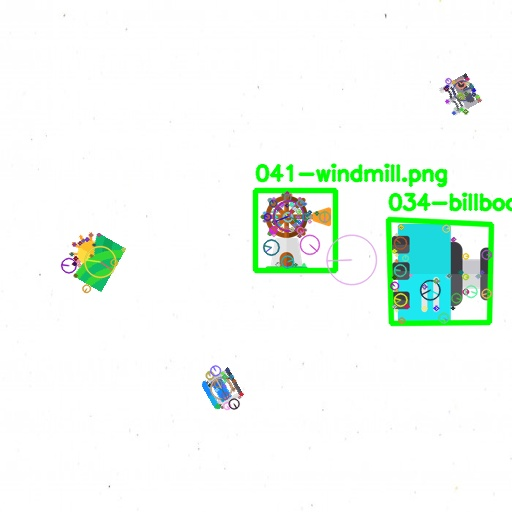
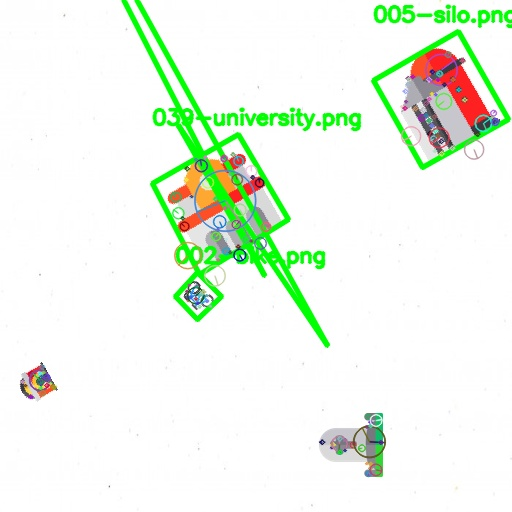
working c1 and c2 still need to refine

diff --git a/C-tasks/main.py b/C-tasks/main.py
@@ -31,16 +31,284 @@ class MatchResults:
     matches: list[cv.DMatch]
 
 
+def Canny(image, h1=50, h2=100):
+
+    gaussian = cv.GaussianBlur(image, (5,5), 0)
+
+    # Sobel Operator - Image gradient
+    sobelx = cv.Sobel(gaussian,cv.CV_64F,1,0,ksize=5)
+    sobely = cv.Sobel(gaussian,cv.CV_64F,0,1,ksize=5)
+
+    # Gradient Magitude
+    grad_magnitude = np.sqrt(sobelx**2 + sobely**2)
+    grad_magnitude = cv.normalize(grad_magnitude, None, 0, 255, cv.NORM_MINMAX)
+
+    # Gradient Orientation
+    grad_orientation = np.rad2deg(np.arctan2(sobely,sobelx))
+    grad_orientation[grad_orientation < 0] += 180
+
+    h, w = image.shape
+    points = np.zeros((h,w))
+    
+    for i in range(1, h-1):
+        for j in range(1, w-1):
+            angle = grad_orientation[i][j]
+
+            if (0 <= angle < 22.5) or (157.5 <= angle <= 180):
+                q, r = grad_magnitude[i,j+1], grad_magnitude[i,j-1]
+            elif 22.5 <= angle < 67.5:
+                q, r = grad_magnitude[i+1,j-1], grad_magnitude[i-1,j+1]
+            elif 67.5 <= angle < 112.5:
+                q, r = grad_magnitude[i+1,j], grad_magnitude[i-1,j]
+            elif 112.5 <= angle < 157.5:
+                q, r = grad_magnitude[i-1,j-1], grad_magnitude[i+1,j+1]
+
+            p = grad_magnitude[i][j]
+
+            if p >= q and p >= r:
+                points[i][j] = p
+
+    points[points < h1] = 0 # non edge
+    points[(points >= h1) & (points <= h2)] = 1 # weak edge
+    points[points > h2] = 255 # strong edge
+
+    stack = list(zip(*np.where(points == 255)))
+    i = 0
+
+    while stack:
+        i, j = stack.pop()
+
+        for di in [-1, 0, 1]:
+            for dj in [-1, 0, 1]:
+
+                ni = i + di
+                nj = j + dj
+
+                if 0 <= ni < h and 0 <= nj < w:
+
+                    if points[ni, nj] == 1:
+                        points[ni,  nj] = 255
+                        stack.append((ni, nj))
+
+    points[points == 1] = 0
+    
+    # cv.imshow(f'canny', points)
+    # cv.waitKey(0)
+    # cv.destroyAllWindows()
+
+    return points
+
+
+def Hough_Transform(canny, dia_len):
+    edge_points = np.nonzero(canny > 0)
+    y, x = edge_points[0], edge_points[1]
+
+    accumulator = np.zeros((180,dia_len*2))
+
+    min_dist = -dia_len
+    angle = -90
+
+    for i in range(180):
+
+        p_values =  np.round(x*np.cos([np.deg2rad(angle+i)]) + y*np.sin([np.deg2rad(angle+i)]),decimals=0)
+        p_values = p_values.astype(int)
+    
+        for col in range(dia_len*2):
+
+            dist_value = min_dist + col
+
+            count = np.size(p_values[p_values == dist_value])
+            
+            if count > 0:
+                accumulator[i][col] = count
+            
+    global_max = np.max(accumulator).astype(int)
+    threshold = int(global_max*0.7)
+
+    maxima = np.where(accumulator[:,:] >= threshold)
+    m_a, m_b = maxima[0], maxima[1]
+
+
+    indices = np.arange(len(m_a))
+
+    i = 0
+
+    while i < indices.shape[0]:
+
+        temp_indices = indices[indices>i] 
+        idx = np.where((m_a[temp_indices] == m_a[i]) | (np.abs(m_a[temp_indices] - m_a[i]) < 5))[0]
+        idx = idx + (i+1)
+
+        idx = idx[np.abs(m_b[idx] - m_b[i]) < 5]
+        indices = np.delete(indices, (idx-1))
+        i += 1
+
+    
+    maxima = (m_a[indices], m_b[indices])
+
+    theta, r = angle + maxima[0], min_dist + maxima[1]
+
+    return theta, r
+
+
+def compute_angle(theta):
+
+    angle = np.diff(theta)
+    angle = (angle + 180) % 360 - 180
+    angle = np.abs(angle)
+
+    return angle
+
+def draw_lines(theta, r, image, f_name):
+    
+    # polar to cartesian coordinates
+    a , b = np.cos(np.deg2rad(theta)), np.sin(np.deg2rad(theta))
+
+    x0, y0 = r * a, r * b
+    x1 = (x0 + 1000*(-b)).astype(int)
+    y1 = (y0 + 1000*(a)).astype(int)
+    x2 = (x0 - 1000*(-b)).astype(int)
+    y2 = (y0 - 1000*(a)).astype(int)
+
+    for l in range(len(theta)):
+        cv.line(image,(x1[l],y1[l]),(x2[l],y2[l]),(255,0,0),1)
+
+    
+    cv.imshow(f'{f_name}',image)
+    cv.waitKey(0)
+    cv.destroyAllWindows()
+
+
+
+
 def test_task_c1(folder_name):
     # assume that this folder name has a file list.txt that contains the annotation.
-    task1_data = pd.read_csv(folder_name + "/list.txt")
+    task1_data = pd.read_csv(folder_name + "list.txt")
     # task1_data = pd.read_csv(folder_name + "/list.txt")
     # Write code to read in each image
     # Write code to process the image
     # Write your code to calculate the angle and obtain the result as a list predAngles
     # Calculate and provide the error in predicting the angle for each image
+    
+    for f in task1_data["FileName"]:
+        
+        image = cv.imread(f"{folder_name}/" + f, cv.IMREAD_GRAYSCALE)
+
+        if image is None:
+            print("Error: Image not found or unable to read.")
+            return 
+
+        # Write code to process the image
+        height, width = image.shape
+        dia_len = int(np.sqrt(height**2 + width**2))
+
+        # points = Canny(image, dia_len)
+        points = cv.Canny(image, 50, 100)
+        theta, r = Hough_Transform(points, dia_len)
+        angle = compute_angle(theta)
+
+        # draw_lines(theta, r, image, f)
+
+        print(angle)
+
+      
     total_error = None
     return total_error
+
+# compute kernel
+def epanechnikov_kernel(w, h):
+    center_x, center_y = w//2, h//2
+    y_indices, x_indices = np.indices((h, w))
+    max_radius = np.sqrt((w / 2)**2 + (h / 2)**2)
+    grid = np.sqrt((x_indices - center_x)**2 + (y_indices - center_y)**2)/max_radius
+    weights = np.where(grid <= 1, 3/4*(1-grid**2), 0)
+    return weights
+
+ # compute intensity histogram
+def calculate_histogram(region, kernel):
+    hist = np.bincount(region.flatten(), weights=kernel.flatten(), minlength=256)
+    norm_hist = cv.normalize(hist, None, alpha=0, beta=255, norm_type=cv.NORM_MINMAX)
+    return np.float32(norm_hist)
+    
+def compare_histograms(hist1, hist2):
+    return cv.compareHist(hist1, hist2, cv.HISTCMP_CORREL)
+
+
+def template_matching(image, temps, temps_hist, kernels):
+    
+    step = 5
+    search_size = 40
+    boxes = []
+    scores = []
+
+    for t in range(temps.shape[0]):
+        best_score = -1
+        best_match = None
+        best_temp = None
+
+        for i in range(temps.shape[1]):
+            template = temps[t][i]
+        
+            result_ncc = cv.matchTemplate(image, template, cv.TM_CCORR_NORMED)
+            _, _, _, max_loc = cv.minMaxLoc(result_ncc)
+
+            x, y = max_loc
+            h, w = template.shape[:2]
+
+            search_x_start = max(0, x - search_size // 2)
+            search_y_start = max(0, y - search_size // 2)
+            search_x_end = min(image.shape[1] - w, x + search_size // 2)
+            search_y_end = min(image.shape[0] - h, y + search_size // 2)
+
+            for check_y in range(search_y_start, search_y_end, step):
+                for check_x in range(search_x_start, search_x_end, step):
+                    if check_y + h > image.shape[0] or check_x + w > image.shape[1]:
+                        continue
+
+                    region = image[check_y:check_y+h, check_x:check_x+w]
+                    region_hist = calculate_histogram(region, kernels[t][i])
+                    hist_score = compare_histograms(temps_hist[t][i], region_hist)
+                    ncc_score = result_ncc[check_y, check_x]
+
+                    combined_score = 1 * ncc_score + 0 * hist_score
+
+                    if combined_score > best_score:
+                        best_score = combined_score
+                        best_match = (check_x, check_y)
+                        best_temp = template
+                    
+        h, w = best_temp.shape[:2]
+        scores.append(best_score)
+        boxes.append([best_match[0], best_match[1], best_match[0]+w, best_match[1]+h])
+
+    return boxes, scores
+
+def NMS(boxes, treshold=0):
+        indices = np.arange(len(boxes))
+
+        areas = (boxes[indices, 2] - boxes[indices, 0]+1)*(boxes[indices, 3] - boxes[indices, 1]+1)
+
+        i = 0
+
+        while i < indices.shape[0]-1:
+            temp_indices = indices[indices>i]
+            
+            xx1 = np.maximum(boxes[i][0], boxes[temp_indices, 0])
+            yy1 = np.maximum(boxes[i][1], boxes[temp_indices, 1])
+            xx2 = np.minimum(boxes[i][2], boxes[temp_indices, 2])
+            yy2 = np.minimum(boxes[i][3], boxes[temp_indices, 3])
+
+            w = np.maximum(0, xx2-xx1+1)
+            h = np.maximum(0, yy2-yy1+1)
+           
+            overlap = (w*h)/ areas[temp_indices]
+
+
+            indices = indices[~np.isin(indices, temp_indices[overlap > treshold])] 
+
+            i += 1    
+
+        return indices
 
 
 def test_task_c2(icon_dir, test_dir):
@@ -49,6 +317,78 @@ def test_task_c2(icon_dir, test_dir):
     # For each predicted class, check accuracy with the annotations
     # Check and calculate the Intersection Over Union (IoU) score
     # based on the IoU determine accuracy, TruePositives, FalsePositives, FalseNegatives
+    templates = []
+    template_sizes=[0.125, 0.25, 0.375, 0.5, 1]
+
+    folder = os.listdir(icon_dir)
+    for file in folder:
+        templates.append(cv.imread(icon_dir + file, cv.IMREAD_GRAYSCALE))
+
+    for file in os.listdir(test_dir):
+        test_image= cv.imread(f"{test_dir}{file}")
+
+        if test_image is None:
+            print("Error: Image not found or unable to read.")
+            return 
+        
+        gray = cv.cvtColor(test_image, cv.COLOR_RGB2GRAY)
+
+        multi_templates = np.zeros([len(templates),len(template_sizes)], dtype=object)
+        templates_kernel = np.zeros([len(templates),len(template_sizes)], dtype=object)
+        templates_hist = np.zeros([len(templates),len(template_sizes)], dtype=object)
+
+        for t in range(len(templates)):
+            template = templates[t]
+
+            for s in range(len(template_sizes)):
+                
+                # compute kernel and template intensity histogram
+                temp = cv.resize(template , None, fx = template_sizes[s], fy = template_sizes[s], interpolation = cv.INTER_CUBIC)
+                kernel = epanechnikov_kernel(temp.shape[1], temp.shape[0])
+                temp_hist = calculate_histogram(temp, kernel)
+
+                multi_templates[t][s] = temp
+                templates_kernel[t][s] = kernel
+                templates_hist[t][s] = temp_hist
+
+
+        # template matching
+        boxes, scores = template_matching(gray, multi_templates, templates_hist, templates_kernel)
+
+
+        arr = np.column_stack((np.array(boxes), np.arange(len(boxes)), np.array(scores)))
+        
+    
+        set = arr[arr[:,5].argsort()[::-1]]
+
+        indices = NMS(set[:, :4])
+
+        boxes = set[indices].astype(np.int32).tolist()
+
+        print(f"{file}:")
+
+        for b in boxes:
+            cv.rectangle(test_image, (b[0], b[1]), (b[2], b[3]), (255, 0, 0), 2)
+
+            cv.putText(
+                test_image,
+                folder[b[4]],
+                (b[0], b[1] - 10),
+                cv.FONT_HERSHEY_SIMPLEX,
+                0.5,
+                (0, 255, 0),
+                1,
+                cv.LINE_AA,
+            )
+
+            print(f"{folder[b[4]]}: {b[0]} {b[1]} {b[2]} {b[3]}")
+            
+        cv.imshow(f'{file}', test_image)
+        cv.waitKey(0)
+        cv.destroyAllWindows()
+
+
+    
     acc, tpr, fpr, fnr = None, None, None, None
     return acc, tpr, fpr, fnr
 